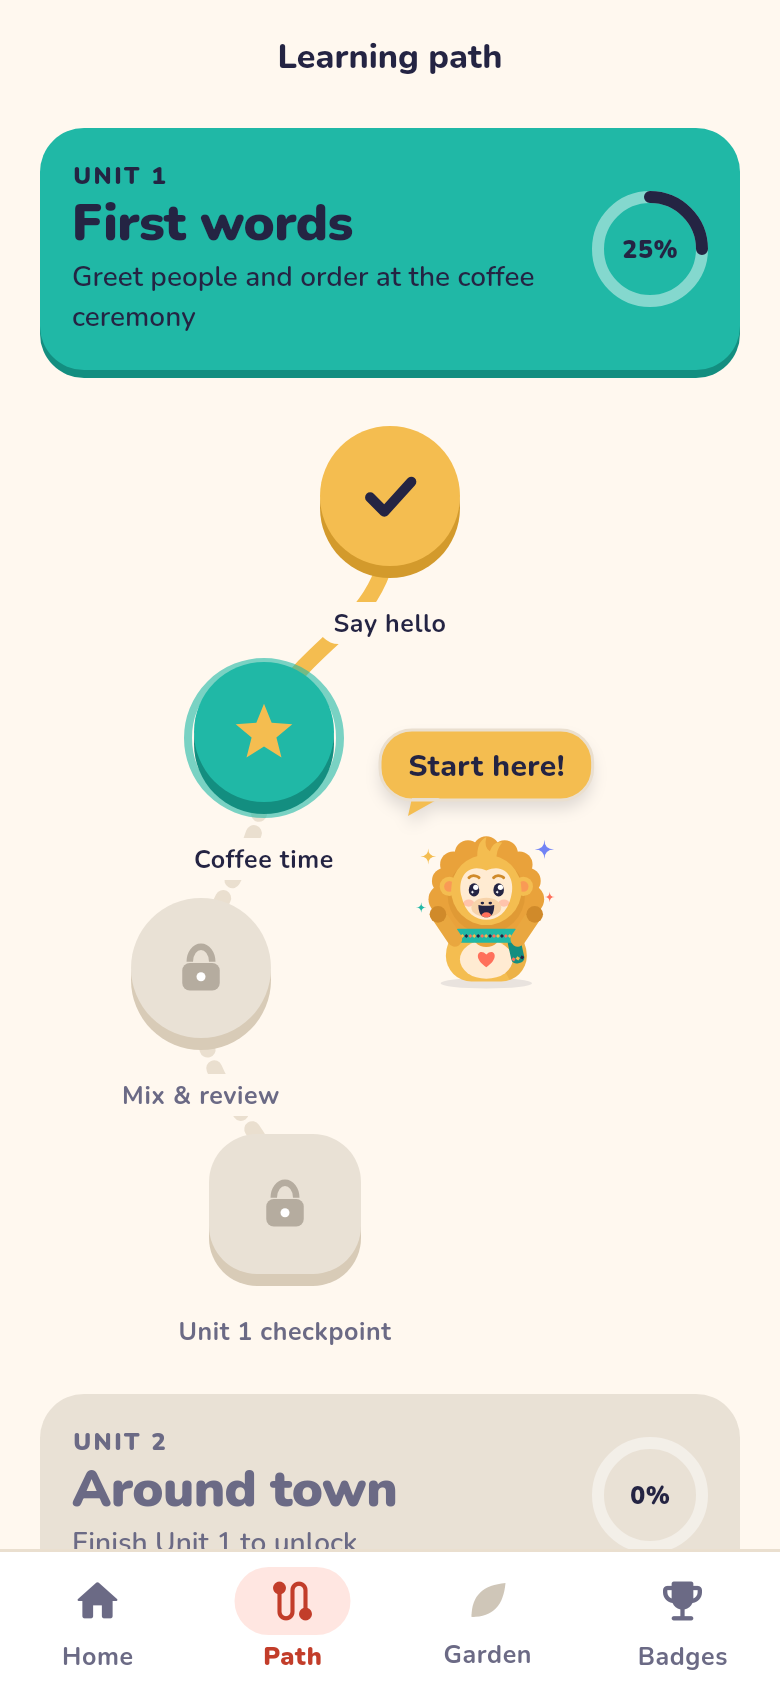
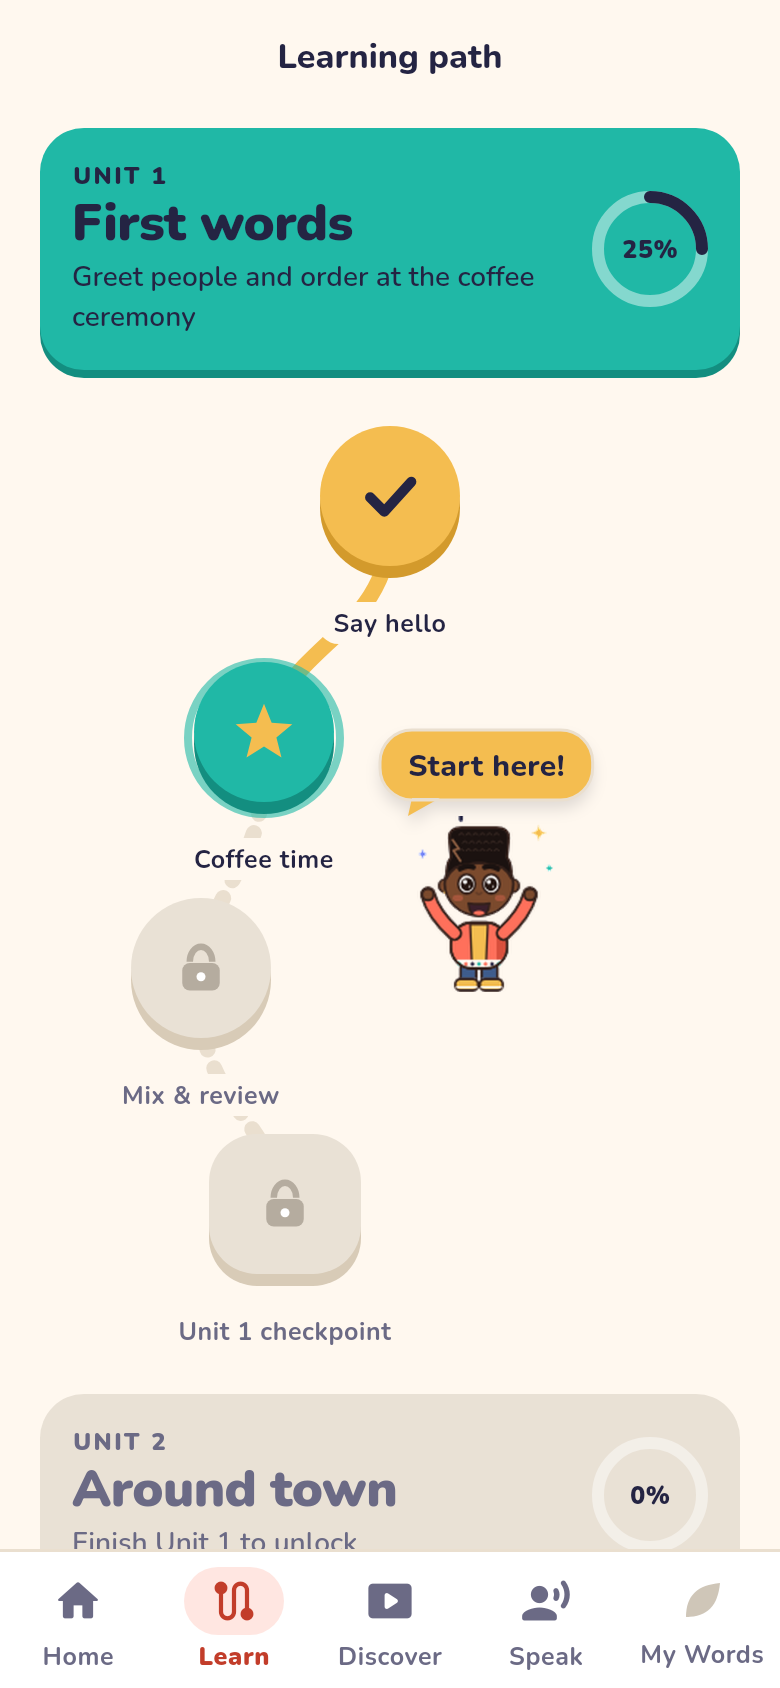
Replace mascot with the human cast (Professor, Spark, Wry, Beat)
Animal concepts intentionally excluded. Poses cut from the team character
sheet into assets/characters/; Mascot renders the cast via castForMood, and
the Speak tab pins the Professor. Docs and screenshots updated.

diff --git a/lib/features/mascot/characters.dart b/lib/features/mascot/characters.dart
@@ -1,0 +1,113 @@
+import 'mascot_mood.dart';
+
+/// The human cast (animal concepts are intentionally not used).
+enum CastMember {
+  /// Elder teacher; the AI tutor in Speak.
+  professor('The Professor', 'Your English teacher'),
+
+  /// Energetic guide; welcomes and cheers.
+  spark('Spark', 'Your learning buddy'),
+
+  /// Thoughtful classmate; helps when things are unclear.
+  wry('Wry', 'Your study partner'),
+
+  /// Music-loving friend with a drum; celebrates wins.
+  beat('Beat', 'Your rhythm coach');
+
+  const CastMember(this.displayName, this.role);
+  final String displayName;
+  final String role;
+}
+
+/// Pose artwork available per cast member: `assets/characters/<member>/<pose>.png`.
+enum CharacterPose {
+  teaching,
+  thinking,
+  correct,
+  idle,
+  confused,
+  speaking,
+  excited,
+  laughing,
+  listening,
+  celebrating,
+}
+
+const Map<CastMember, Set<CharacterPose>> availablePoses = {
+  CastMember.professor: {
+    CharacterPose.teaching,
+    CharacterPose.thinking,
+    CharacterPose.correct,
+  },
+  CastMember.spark: {
+    CharacterPose.speaking,
+    CharacterPose.excited,
+    CharacterPose.laughing,
+  },
+  CastMember.wry: {
+    CharacterPose.idle,
+    CharacterPose.confused,
+    CharacterPose.correct,
+  },
+  CastMember.beat: {
+    CharacterPose.listening,
+    CharacterPose.speaking,
+    CharacterPose.celebrating,
+  },
+};
+
+String characterAsset(CastMember m, CharacterPose p) =>
+    'assets/characters/${m.name}/${p.name}.png';
+
+/// Which cast member shows each app mood when a screen does not pick one.
+(CastMember, CharacterPose) castForMood(MascotMood mood) => switch (mood) {
+  MascotMood.welcome => (CastMember.spark, CharacterPose.speaking),
+  MascotMood.happy => (CastMember.spark, CharacterPose.laughing),
+  MascotMood.excited => (CastMember.spark, CharacterPose.excited),
+  MascotMood.celebrating => (CastMember.beat, CharacterPose.celebrating),
+  MascotMood.encouraging => (CastMember.wry, CharacterPose.correct),
+  MascotMood.thinking => (CastMember.professor, CharacterPose.thinking),
+  MascotMood.confused => (CastMember.wry, CharacterPose.confused),
+  MascotMood.sleeping => (CastMember.wry, CharacterPose.idle),
+};
+
+/// The closest pose a given cast member has for a mood (used when a screen
+/// pins one character, e.g. the Professor in Speak).
+CharacterPose poseFor(CastMember m, MascotMood mood) {
+  final wanted = switch (mood) {
+    MascotMood.thinking => [
+      CharacterPose.thinking,
+      CharacterPose.confused,
+      CharacterPose.listening,
+    ],
+    MascotMood.confused => [CharacterPose.confused, CharacterPose.thinking],
+    MascotMood.celebrating => [
+      CharacterPose.celebrating,
+      CharacterPose.correct,
+      CharacterPose.excited,
+    ],
+    MascotMood.encouraging || MascotMood.happy => [
+      CharacterPose.correct,
+      CharacterPose.laughing,
+      CharacterPose.celebrating,
+    ],
+    MascotMood.excited => [
+      CharacterPose.excited,
+      CharacterPose.listening,
+      CharacterPose.teaching,
+    ],
+    MascotMood.sleeping => [
+      CharacterPose.idle,
+      CharacterPose.thinking,
+      CharacterPose.listening,
+    ],
+    MascotMood.welcome => [CharacterPose.speaking, CharacterPose.teaching],
+  };
+  final have = availablePoses[m]!;
+  for (final p in wanted) {
+    if (have.contains(p)) return p;
+  }
+  return have.contains(CharacterPose.teaching)
+      ? CharacterPose.teaching
+      : have.first;
+}

diff --git a/lib/features/mascot/mascot.dart b/lib/features/mascot/mascot.dart
@@ -4,13 +4,15 @@ import 'package:flutter/material.dart';
 
 import '../../core/motion/motion.dart';
 import 'mascot_mood.dart';
-import 'mascot_painter.dart';
+import 'characters.dart';
 
+export 'characters.dart';
 export 'mascot_mood.dart';
 
-/// The mascot widget. Idle motion (breathing, waving, blinking) loops while
-/// [animate] is true and the OS has not requested reduced motion. Changing
-/// [mood] cross-fades with a small pop so expression changes read clearly.
+/// A cast character (human cast, see characters.dart). [character] pins a
+/// specific person (e.g. the Professor in Speak); otherwise the mood picks
+/// who appears. A gentle idle bob loops while [animate] is true and the OS
+/// has not requested reduced motion. Changes cross-fade with a small pop.
 class Mascot extends StatefulWidget {
   const Mascot({
     super.key,
@@ -18,8 +20,10 @@ class Mascot extends StatefulWidget {
     this.size = 160,
     this.animate = true,
     this.semanticLabel,
+    this.character,
   });
 
+  final CastMember? character;
   final MascotMood mood;
   final double size;
   final bool animate;
@@ -68,19 +72,23 @@ class _MascotState extends State<Mascot> with SingleTickerProviderStateMixin {
     super.dispose();
   }
 
-  /// A quick blink near the end of each loop.
-  double _blinkAt(double t) {
-    const start = 0.86, end = 0.94;
-    if (t < start || t > end) return 0;
-    return math.sin((t - start) / (end - start) * math.pi);
-  }
-
   @override
   Widget build(BuildContext context) {
     final reduced = Motion.reduced(context);
+    final (member, pose) = widget.character == null
+        ? castForMood(widget.mood)
+        : (widget.character!, poseFor(widget.character!, widget.mood));
+    final image = Image.asset(
+      characterAsset(member, pose),
+      fit: BoxFit.contain,
+      filterQuality: FilterQuality.medium,
+      excludeFromSemantics: true,
+      gaplessPlayback: true,
+    );
     return Semantics(
       image: true,
-      label: widget.semanticLabel ?? 'Mascot, ${widget.mood.name}',
+      label:
+          widget.semanticLabel ?? '${member.displayName}, ${widget.mood.name}',
       child: AnimatedSwitcher(
         duration: Motion.of(context, Motion.medium),
         switchInCurve: Motion.bouncy,
@@ -93,19 +101,22 @@ class _MascotState extends State<Mascot> with SingleTickerProviderStateMixin {
           ),
         ),
         child: RepaintBoundary(
-          key: ValueKey(widget.mood),
+          key: ValueKey((member, pose)),
           child: SizedBox.square(
             dimension: widget.size,
             child: reduced || !widget.animate
-                ? CustomPaint(painter: MascotPainter(mood: widget.mood))
+                ? image
                 : AnimatedBuilder(
                     animation: _loop,
-                    builder: (_, _) => CustomPaint(
-                      painter: MascotPainter(
-                        mood: widget.mood,
-                        t: _loop.value,
-                        blink: _blinkAt(_loop.value),
+                    child: image,
+                    builder: (_, child) => Transform.translate(
+                      offset: Offset(
+                        0,
+                        -math.sin(_loop.value * 2 * math.pi).abs() *
+                            widget.size *
+                            0.025,
                       ),
+                      child: child,
                     ),
                   ),
           ),

diff --git a/lib/features/speak/speak_screen.dart b/lib/features/speak/speak_screen.dart
@@ -198,7 +198,13 @@ class _Intro extends StatelessWidget {
     return ListView(
       padding: const EdgeInsets.all(Space.gutter),
       children: [
-        const Center(child: Mascot(mood: MascotMood.welcome, size: 110)),
+        const Center(
+          child: Mascot(
+            character: CastMember.professor,
+            mood: MascotMood.welcome,
+            size: 110,
+          ),
+        ),
         const SizedBox(height: Space.md),
         Text(
           c?.hasLesson == true
@@ -429,7 +435,12 @@ class _StateBanner extends StatelessWidget {
           ),
           child: Row(
             children: [
-              Mascot(mood: mood, size: 44, semanticLabel: 'Professor'),
+              Mascot(
+                character: CastMember.professor,
+                mood: mood,
+                size: 44,
+                semanticLabel: 'Professor',
+              ),
               const SizedBox(width: Space.sm),
               Expanded(
                 child: Column(
@@ -1003,7 +1014,13 @@ class _Unavailable extends StatelessWidget {
       key: const ValueKey('speak_unavailable'),
       padding: const EdgeInsets.all(Space.gutter),
       children: [
-        const Center(child: Mascot(mood: MascotMood.sleeping, size: 130)),
+        const Center(
+          child: Mascot(
+            character: CastMember.professor,
+            mood: MascotMood.sleeping,
+            size: 130,
+          ),
+        ),
         const SizedBox(height: Space.sm),
         LabelWithSupport(
           S.professorOffline,

diff --git a/test/helpers/fonts.dart b/test/helpers/fonts.dart
@@ -1,6 +1,9 @@
 import 'dart:io';
 
+import 'package:ethio_linguo/features/mascot/mascot.dart';
+import 'package:flutter/material.dart';
 import 'package:flutter/services.dart';
+import 'package:flutter_test/flutter_test.dart';
 
 /// Loads the app's bundled fonts into the test engine so rendered output
 /// (and Ethiopic glyph checks) use the real typefaces instead of Ahem boxes.
@@ -35,4 +38,18 @@ String? _materialIconsPath() {
     '$root/bin/cache/artifacts/material_fonts/MaterialIcons-Regular.otf',
   );
   return f.existsSync() ? f.path : null;
+}
+
+/// Decodes every cast image up front so golden screenshots show them
+/// (image decoding is real async work outside the test's fake clock).
+Future<void> precacheCast(WidgetTester t) async {
+  await t.runAsync(() async {
+    final ctx = t.element(find.byType(MaterialApp).first);
+    for (final m in CastMember.values) {
+      for (final p in availablePoses[m]!) {
+        await precacheImage(AssetImage(characterAsset(m, p)), ctx);
+      }
+    }
+  });
+  await t.pump();
 }

diff --git a/test/screenshots/scene_to_speech_shots_test.dart b/test/screenshots/scene_to_speech_shots_test.dart
@@ -14,8 +14,13 @@ import '../helpers/fakes.dart';
 import '../helpers/fonts.dart';
 import '../helpers/harness.dart';
 
-Future<void> shot(WidgetTester t, String name) =>
-    expectLater(find.byType(MaterialApp), matchesGoldenFile('out/$name.png'));
+Future<void> shot(WidgetTester t, String name) async {
+  await precacheCast(t);
+  await expectLater(
+    find.byType(MaterialApp),
+    matchesGoldenFile('out/$name.png'),
+  );
+}
 
 Future<void> precachePoster(WidgetTester t) async {
   await t.runAsync(() async {
@@ -148,7 +153,7 @@ void main() {
     await t.pumpAndSettle();
     await t.tap(find.byKey(const ValueKey('speak_start')));
     await t.pumpAndSettle();
-    await t.tap(find.byKey(const ValueKey('speak_talk')));
+    // Live mode already heard the learner after the opening line.
     await t.pumpAndSettle();
     await shot(t, '39_professor_session_ui');
   });

diff --git a/test/screenshots/mascot_sheet_test.dart b/test/screenshots/mascot_sheet_test.dart
@@ -35,7 +35,7 @@ void main() {
                           borderRadius: BorderRadius.circular(24),
                         ),
                         padding: const EdgeInsets.all(12),
-                        child: Mascot(mood: m, size: 300, animate: false),
+                        child: Mascot(mood: m, size: 220, animate: false),
                       ),
                       const SizedBox(height: 8),
                       Text(
@@ -68,6 +68,7 @@ void main() {
         ),
       ),
     );
+    await precacheCast(tester);
     await tester.pumpAndSettle();
     await expectLater(
       find.byType(Scaffold),

diff --git a/test/screenshots/screens_test.dart b/test/screenshots/screens_test.dart
@@ -15,8 +15,13 @@ import '../helpers/fonts.dart';
 import '../helpers/harness.dart';
 import '../helpers/lesson_driver.dart';
 
-Future<void> shot(WidgetTester tester, String name) =>
-    expectLater(find.byType(MaterialApp), matchesGoldenFile('out/$name.png'));
+Future<void> shot(WidgetTester tester, String name) async {
+  await precacheCast(tester);
+  await expectLater(
+    find.byType(MaterialApp),
+    matchesGoldenFile('out/$name.png'),
+  );
+}
 
 void main() {
   setUpAll(loadAppFonts);

diff --git a/lib/features/onboarding/welcome_screen.dart b/lib/features/onboarding/welcome_screen.dart
@@ -135,7 +135,7 @@ class _Hero extends StatelessWidget {
             child: Mascot(
               mood: MascotMood.welcome,
               size: 260,
-              semanticLabel: 'Gela the mascot waving hello',
+              semanticLabel: 'Spark waving hello',
             ),
           ),
           const Positioned(

diff --git a/lib/app/app_config.dart b/lib/app/app_config.dart
@@ -4,5 +4,5 @@ abstract final class AppConfig {
   static const workingTitle = 'Ethio Linguo';
 
   /// Placeholder mascot name (see docs/design/MASCOT.md).
-  static const mascotName = 'Gela';
+  static const mascotName = 'Spark';
 }

diff --git a/docs/design/MASCOT.md b/docs/design/MASCOT.md
@@ -1,3 +1,24 @@
+# Character Cast (current)
+
+> **Status (2026-11-21):** the app uses the **human cast** from the team's character sheet. The animal concepts (Buddy, Walia, Fable and Riddle) are deliberately **not used**. The vector "Gela" mascot described further down is retired. `mascot_painter.dart` is kept for reference only and is not rendered.
+
+![Cast sheet](../screenshots/mascot_sheet.png)
+
+| Character | Role in the app | Poses (assets) |
+|---|---|---|
+| **The Professor** | The AI tutor in Speak; also "thinking" states | teaching, thinking, correct |
+| **Spark** | Welcome and companion: greetings, happy, excited | speaking, excited, laughing |
+| **Wry** | Study partner: empty states, confusion, encouragement | idle, confused, correct |
+| **Beat** | Celebrations and rewards | listening, speaking, celebrating |
+
+- **Assets:** `assets/characters/<member>/<pose>.png`, transparent and cut from the sheet.
+- **Code:** `lib/features/mascot/characters.dart`. `castForMood` picks who appears for each `MascotMood`. `Mascot(character: CastMember.professor, …)` pins one person, as the Speak tab does.
+- **Image quality:** the sources are about 110 px tall per pose, upscaled 3×, so they look soft at large sizes such as the welcome screen. Replace them with high-resolution or vector exports using the same file names. No code changes are needed.
+
+---
+
+## Retired concept (milestone 1)
+
 # Mascot & Character System
 
 > Status: **working concept**. Name, final proportions and production animation are not final.
